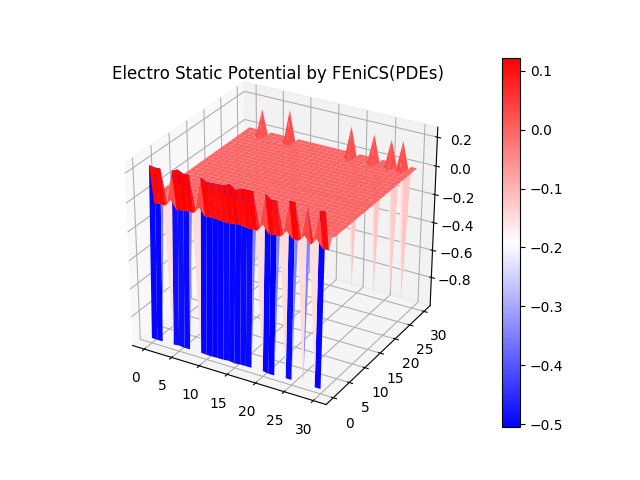
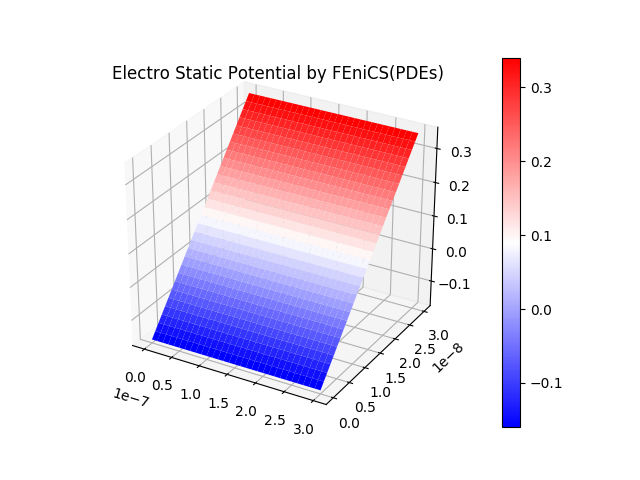
add poisson_test.py for non-liner poisson solver including charge distribution

diff --git a/main.py b/main.py
@@ -7,7 +7,7 @@ from mpl_toolkits.mplot3d import Axes3D
 from fenics import *
 
 import schrodinger_fenics
-import poisson
+import poisson_test
 import plotter
 
 class Device(object):
@@ -18,6 +18,8 @@ class Device(object):
         self.yfi = yfi
         self.nx = nx
         self.ny = ny
+        self.dx = xfi / nx
+        self.dy = yfi / ny
 
     def IntervalMeshCreate(self):
         mesh = IntervalMesh(self.ny, self.yin, self.yfi)
@@ -27,20 +29,76 @@ class Device(object):
         mesh = RectangleMesh(Point(self.xin, self.yin), Point(self.xfi, self.yfi), self.nx, self.ny)
         return mesh
 
+    def craeteChargeDistribution(self, doner):
+        """
+        Args
+        ------
+        doner - Array
+        doner[  {xi: ..., xf: ..., yi: ..., yf: ..., nplus: ...} ]
+        """
+        temp = (self.nx + 1) * (self.ny + 1)
+        arr = np.arange(temp).reshape(self.nx+1, self.ny+1)
+
+        doner_density = 5.0 * 10**19
+        
+        arr = np.full_like(arr, doner_density)
+
+        for d in doner:
+            d["xi"] = int(d["xi"] / self.dx)
+            d["xf"] = int(d["xf"] / self.dx)
+            d["yi"] = int(d["yi"] / self.dy)
+            d["yf"] = int(d["yf"] / self.dy)
+            arr[d["xi"] : d["xf"] , d["yi"] : d["yf"] ] = float(d["nplus"])
+        result = arr.flatten()
+
+        return result
+
+
+
+
+
+class Constant(object):
+    def __init__(self):
+        self.Q = 1.60217662e-19
+        self.HBAR = 5.682119514e-16
+        self.H = 4.135667662e-15
+        self.PI = 3.14159265359
 
 if __name__ == "__main__":
 
     # create mesh
     xin = 0
     yin = 0
-    xfi = 30
-    yfi = 30
+    xfi = 30 * 10**-9
+    yfi = 30 * 10**-9
     nx = 30
     ny = 30
 
+    # doner density about n++ layer
+    doner = [
+        {
+            "xi": 0.0,
+            "xf": 3.0 * 10**-9,
+            "yi": 0.0,
+            "yf": 5.0 * 10**-9,
+            "nplus": 1.0 * 10**21
+        },
+        {
+            "xi": 27 * 10**-9,
+            "xf": 30 * 10**-9,
+            "yi": 0.0,
+            "yf": 5.0 * 10**-9,
+            "nplus": 1.0 * 10 **21
+        }
+    ]
+
     device = Device(xin, yin, xfi, yfi, nx, ny)
+
     rectangle_mesh = device.RectangleMeshCreate()
-    potential = poisson.poissonSolver(rectangle_mesh)
+
+    dopant = device.craeteChargeDistribution(doner)
+
+    potential = poisson_test.poissonSolver(rectangle_mesh, dopant)
     plotter.plot_potential_distribution(device, rectangle_mesh, potential)
 
     u = potential.vector()[:]

diff --git a/poisson_test.py b/poisson_test.py
@@ -1,0 +1,68 @@
+"""
+FEniCS tutorial demo program: Nonlinear Poisson equation.
+  -div(q(u)*grad(u)) = f   in the unit square.
+                   u = u_D on the boundary.
+"""
+
+from __future__ import print_function
+import matplotlib
+matplotlib.use('Agg')
+import matplotlib.pyplot as plt
+import numpy as np
+from mpl_toolkits.mplot3d import Axes3D
+
+# Warning: from fenics import * will import both `sym` and
+# `q` from FEniCS. We therefore import FEniCS first and then
+# overwrite these objects.
+from fenics import *
+
+def poissonSolver(mesh, dopant, device):
+
+    print("start poisson solver")
+    # Nuemann condition
+    def boundary(x, on_boundary):
+        return on_boundary
+
+    # Dereclet condition
+    def ohmic_boudary_source(x, on_boundary):
+        if( near(x[0], 0) and on_boundary):
+            return True
+    
+    # Dereclet condition
+    def ohmic_boudary_drain(x, on_boundary):
+        if( near(x[0], 30) and on_boundary):
+            return True
+
+    # Dereclet condition
+    def schottky_boundary(x, on_boundary):
+        if( near(x[1], 0) and (10 < x[0] and 20 < x[0]) and on_boundary):
+            return True 
+
+    V = FunctionSpace(mesh, 'CG', 1)
+
+    u_gate = Constant(2.0)
+    u_drain = Constant(0.0)
+    u_source = Constant(0.0)
+
+    gate_bc = DirichletBC(V, u_gate, schottky_boundary)
+    drain_bc = DirichletBC(V, u_drain, ohmic_boudary_drain)
+    source_bc = DirichletBC(V, u_source, ohmic_boudary_source)
+    bc = [gate_bc, drain_bc, source_bc]
+
+    # we have to consider Nueman condition, but it must be zero
+    # according to gauss's law electric potential is zero in boudary condition.
+    # that's why Nueman condition will be zero
+    # Diricril condition shows potential itself
+    # it well be q x Vg as diriclet condition.
+
+    # Difine variational problem
+    u = Function(V)
+    v = TestFunction(V)
+    f = Function(V)
+    f.vector()[:] = np.array([i for i in dopant])
+    F = inner((1 + u**2)*grad(u), grad(v))*dx - f*v*dx
+
+    # Compute solution
+    solve(F == 0, u, bc, solver_parameters={"newton_solver":{"relative_tolerance": 1e-6}})
+
+    return u

diff --git a/poisson.py b/poisson.py
@@ -43,7 +43,30 @@ def poissonSolver(mesh):
     def boundary(x, on_boundary):
         return on_boundary
 
-    bc = DirichletBC(V, u_D, boundary)
+    def ohmic_boudary_source(x, on_boundary):
+        if( near(x[0], 0) and on_boundary):
+            return True
+    
+    def ohmic_boudary_drain(x, on_boundary):
+        if( near(x[0], 30) and on_boundary):
+            return True
+
+    def schottky_boundary(x, on_boundary):
+        if( near(x[1], 0) and (10 < x[0] and 20 < x[0]) and on_boundary):
+            return True 
+
+    u_boundary = Constant(0.0)
+    u_gate = Constant(1.0)
+    u_drain = Constant(0.0)
+    u_source = Constant(0.0)
+
+    boundary_bc = DirichletBC(V, u_boundary, boundary)
+    gate_bc = DirichletBC(V, u_gate, schottky_boundary)
+    drain_bc = DirichletBC(V, u_drain, ohmic_boudary_drain)
+    source_bc = DirichletBC(V, u_source, ohmic_boudary_source)
+    bc = [boundary_bc, gate_bc, drain_bc, source_bc]
+
+    #bc = DirichletBC(V, u_D, boundary)
 
     # Define variational problem
     u = Function(V)  # Note: not TrialFunction!

diff --git a/plotter.py b/plotter.py
@@ -58,3 +58,23 @@ def plot_wave_function(device, mesh, wavefunction):
         ax.set_title("Electro Static Potential by FEniCS(PDEs)")
         fig.show()
         plt.savefig("wave-function3d" + "-" + str(i) + ".png")
+
+def plot_electric_field(device, mesh, electric_field):
+    x = np.array([])
+    y = np.array([])
+    grid = mesh.coordinates()
+    for i in range(mesh.num_vertices()):
+        x = np.append(x, grid[i][0])
+        y = np.append(y, grid[i][1])
+    X = np.reshape(x, (device.nx+1,device.ny+1)) 
+    Y = np.reshape(y, (device.nx+1,device.ny+1))
+
+    for i in range(0,3):
+        Z = electric_field[i][:][:]
+        wfig = plt.figure()
+        wax = wfig.add_subplot(111, projection='3d')
+        wsurf = wax.plot_surface(X ,Y, Z, cmap='bwr', linewidth=0)
+        wfig.colorbar(wsurf)
+        wax.set_title("wave function by FEniCS(PDEs)")
+        wfig.show()
+        plt.savefig("wave-function3d" + "-" + str(i) + ".png")
